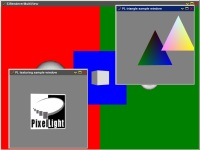
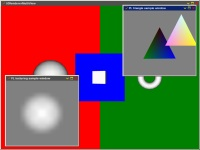
PLSamples: "51RendererTexturing": The used texture is now generated at runtime instead of loading it in

diff --git a/Samples/51RendererTexturing/src/SPTexturing.cpp b/Samples/51RendererTexturing/src/SPTexturing.cpp
@@ -23,7 +23,10 @@
 //[-------------------------------------------------------]
 //[ Includes                                              ]
 //[-------------------------------------------------------]
+#include <PLMath/Math.h>
+#include <PLMath/Vector3i.h>
 #include <PLGraphics/Image/Image.h>
+#include <PLGraphics/Image/ImageBuffer.h>
 #include <PLRenderer/Renderer/Renderer.h>
 #include <PLRenderer/Renderer/VertexBuffer.h>
 #include "SPTexturing.h"
@@ -32,6 +35,8 @@
 //[-------------------------------------------------------]
 //[ Namespace                                             ]
 //[-------------------------------------------------------]
+using namespace PLCore;
+using namespace PLMath;
 using namespace PLGraphics;
 using namespace PLRenderer;
 
@@ -139,12 +144,31 @@ SPTexturing::SPTexturing(Renderer &cRenderer) : SurfacePainter(cRenderer),
 	}
 
 	{ // Setup the renderer texture buffer for our quad
-		// Load in the image we want to use as texture
-		Image cImage;
-		if (cImage.Load("Data/Textures/PLLogo.dds")) {	// Within "Runtime/Data/Standard.zip"
-			// Create the texture buffer instance by using our image data
-			m_pTextureBuffer = reinterpret_cast<TextureBuffer*>(GetRenderer().CreateTextureBuffer2D(cImage));
+		// Create the image we want to use as texture (to keep this sample free of external resources, we don't just load in an image)
+		// -> Intentionally low resolution so that one can see that it's a texture, and also can see the texture filtering in action
+		const uint32 nWidth  = 16;
+		const uint32 nHeight = 16;
+		Image cImage = Image::CreateImage(DataByte, ColorGrayscale, Vector3i(nWidth, nHeight, 1));
+		{ // Fill the image
+			ImageBuffer *pImageBuffer = cImage.GetBuffer();
+
+			// Create the texture data
+			const float fWidthHalf  = static_cast<float>(nWidth/2)-0.5f;
+			const float fHeightHalf = static_cast<float>(nHeight/2)-0.5f;
+			const float fMin		= Color4::Gray.r;
+			uint8 *pData = pImageBuffer->GetData();
+			for (uint32 j=0; j<nWidth; j++) {
+				for (uint32 i=0; i<nHeight; i++) {
+					const float x  = (i - fWidthHalf)/fWidthHalf;
+					const float y  = (j - fHeightHalf)/fHeightHalf;
+					const float ls = Math::Max(1 - (x*x + y*y), fMin);
+					pData[j*nWidth+i] = static_cast<uint8>(255*ls);
+				}
+			}
 		}
+
+		// Create the texture buffer instance by using our image data
+		m_pTextureBuffer = reinterpret_cast<TextureBuffer*>(GetRenderer().CreateTextureBuffer2D(cImage));
 	}
 }
 

diff --git a/Samples/51RendererTexturing/src/SPTexturingFixedFunctions.cpp b/Samples/51RendererTexturing/src/SPTexturingFixedFunctions.cpp
@@ -94,7 +94,7 @@ void SPTexturingFixedFunctions::OnPaint(Surface &cSurface)
 
 		{ // Set the view matrix
 			Matrix4x4 mView;
-			mView.SetTranslation(0.0f, 0.0f, -5.0f);
+			mView.SetTranslation(0.0f, 0.0f, -2.5f);
 			pFixedFunctions->SetTransformState(FixedFunctions::Transform::View, mView);
 		}
 

diff --git a/Samples/51RendererTexturing/src/SPTexturingShaders.cpp b/Samples/51RendererTexturing/src/SPTexturingShaders.cpp
@@ -157,7 +157,7 @@ void SPTexturingShaders::OnPaint(Surface &cSurface)
 			// Calculate the view matrix
 			Matrix4x4 mView;
 			{
-				mView.SetTranslation(0.0f, 0.0f, -5.0f);
+				mView.SetTranslation(0.0f, 0.0f, -2.5f);
 			}
 
 			// Calculate the projection matrix
